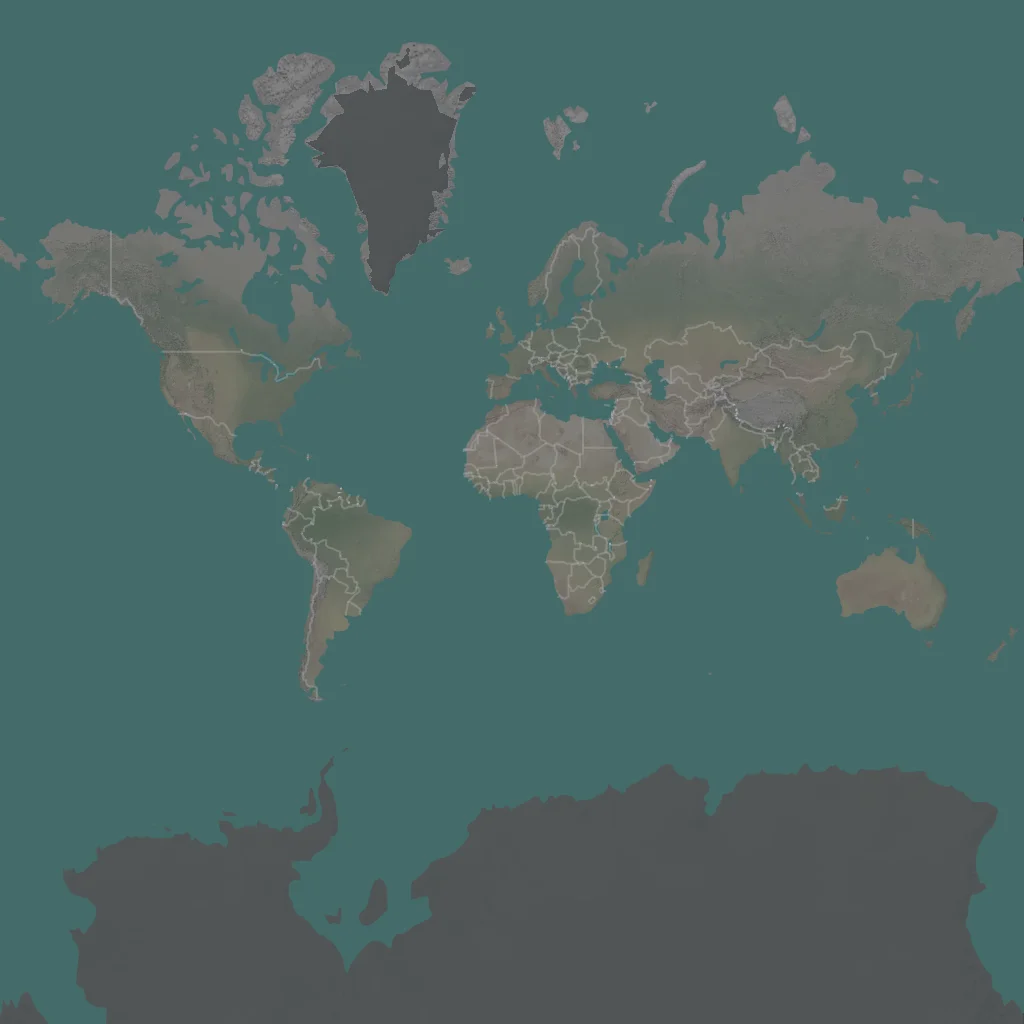
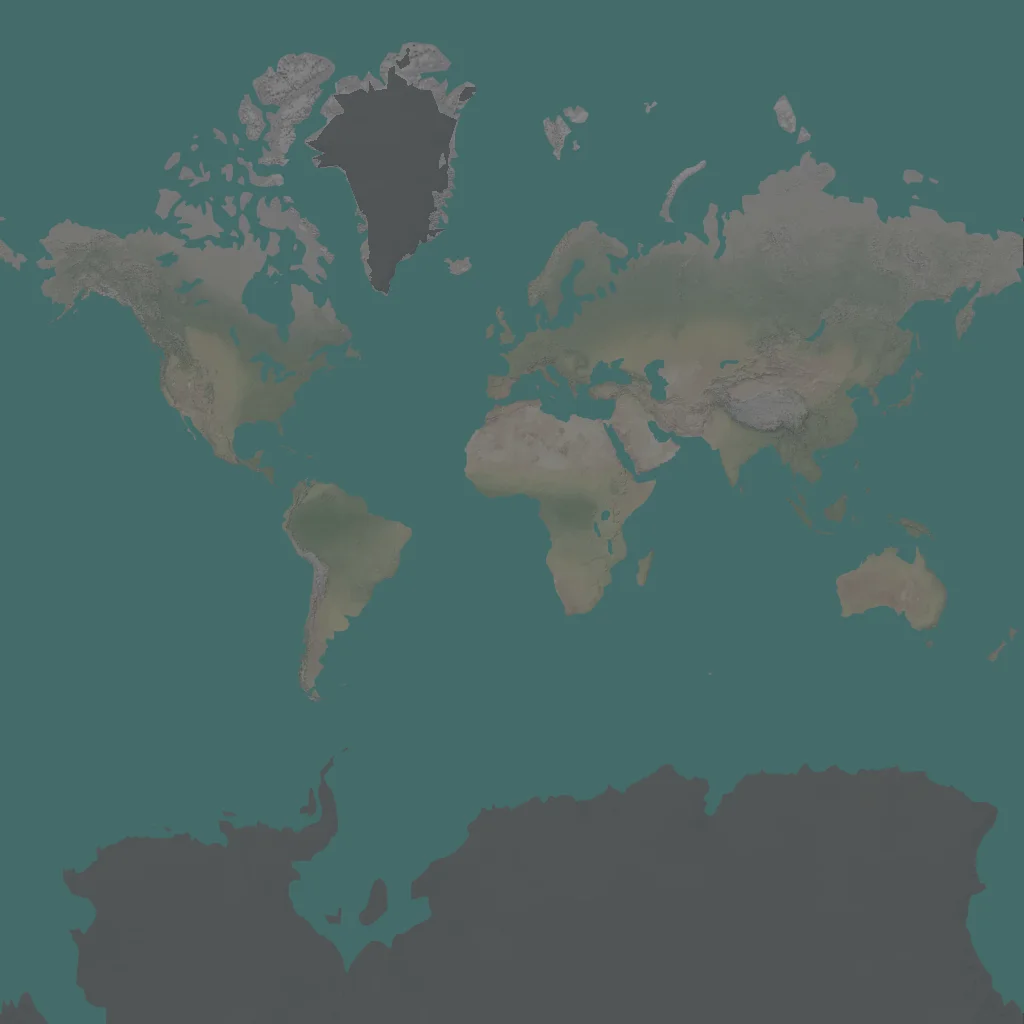
feat(home): the world picture drops the basemap's borders too

diff --git a/src/components/map/map-backdrop.tsx b/src/components/map/map-backdrop.tsx
@@ -211,9 +211,9 @@ export interface MapBackdropProps {
   water: ReactNode;
   // Draw the static picture of the whole world this app ships rather than this
   // instance's tiles - so on any instance, renderer or none - for a map of
-  // every place a diver went, which reads as a world map does: unlettered, the
-  // Pacific at its sides. It owes the shipped styles' credit, not the
-  // instance's (`DEFAULT_BASEMAP_ATTRIBUTION`).
+  // every place a diver went, which reads as a world map does: unlettered and
+  // unbordered, placed by `worldCamera`. It owes the shipped styles' credit,
+  // not the instance's (`DEFAULT_BASEMAP_ATTRIBUTION`).
   world?: boolean;
 }
 

diff --git a/DECISIONS.md b/DECISIONS.md
@@ -6940,12 +6940,12 @@ renderers and loads GL JS on every detail page of a default install.
 ## The Home hero draws a shipped picture of the world, not tiles
 
 `MapBackdrop`'s `world` draws `public/world-map/`, the grid's zoom-0 square rendered from the
-shipped styles without their symbol layers, in place of the instance's tiles. A map of everywhere a
-diver went reads as a world map: unlettered, the same picture for every account, Greenwich at its
-middle unless a narrow frame would leave a pin off it, and moved up or down to put the pins' middle
-in the band. It needs no renderer, so it shows on every instance, and it credits the shipped styles
-whatever basemap the instance configures. Rejected: tiles fitted to the trip places, which carry the
-basemap's lettering; and fitting the picture, which blurs past its one zoom.
+shipped styles without their symbol and boundary layers, in place of the instance's tiles. A map of
+everywhere a diver went reads as a world map: unlettered, the same picture for every account,
+Greenwich at its middle unless a narrow frame would leave a pin off it, and moved up or down to put
+the pins' middle in the band. It needs no renderer, so it shows on every instance, and it credits
+the shipped styles whatever basemap the instance configures. Rejected: tiles fitted to the trip
+places, which carry the basemap's lettering; and fitting the picture, which blurs past its one zoom.
 
 ## A page keeps four tile requests out, and a map lets its requests go
 

diff --git a/NOTICE.md b/NOTICE.md
@@ -211,7 +211,7 @@ wrong project. An operator who keeps the bundled pair must leave that default cr
 build that hides it is a licence breach, not a styling choice.
 
 `public/world-map/light.webp` and `dark.webp` are the two styles drawn at zoom 0 with their
-lettering removed, by `scripts/generate-world-map.mjs`: a rendering of OpenMapTiles' OpenStreetMap
-data and OpenFreeMap's Natural Earth relief, so a Produced Work under the ODbL. The Home page's
-hero, which shows them, carries the same default credit on every instance, whatever basemap it is
-configured with.
+lettering and borders removed, by `scripts/generate-world-map.mjs`: a rendering of OpenMapTiles'
+OpenStreetMap data and OpenFreeMap's Natural Earth relief, so a Produced Work under the ODbL. The
+Home page's hero, which shows them, carries the same default credit on every instance, whatever
+basemap it is configured with.
